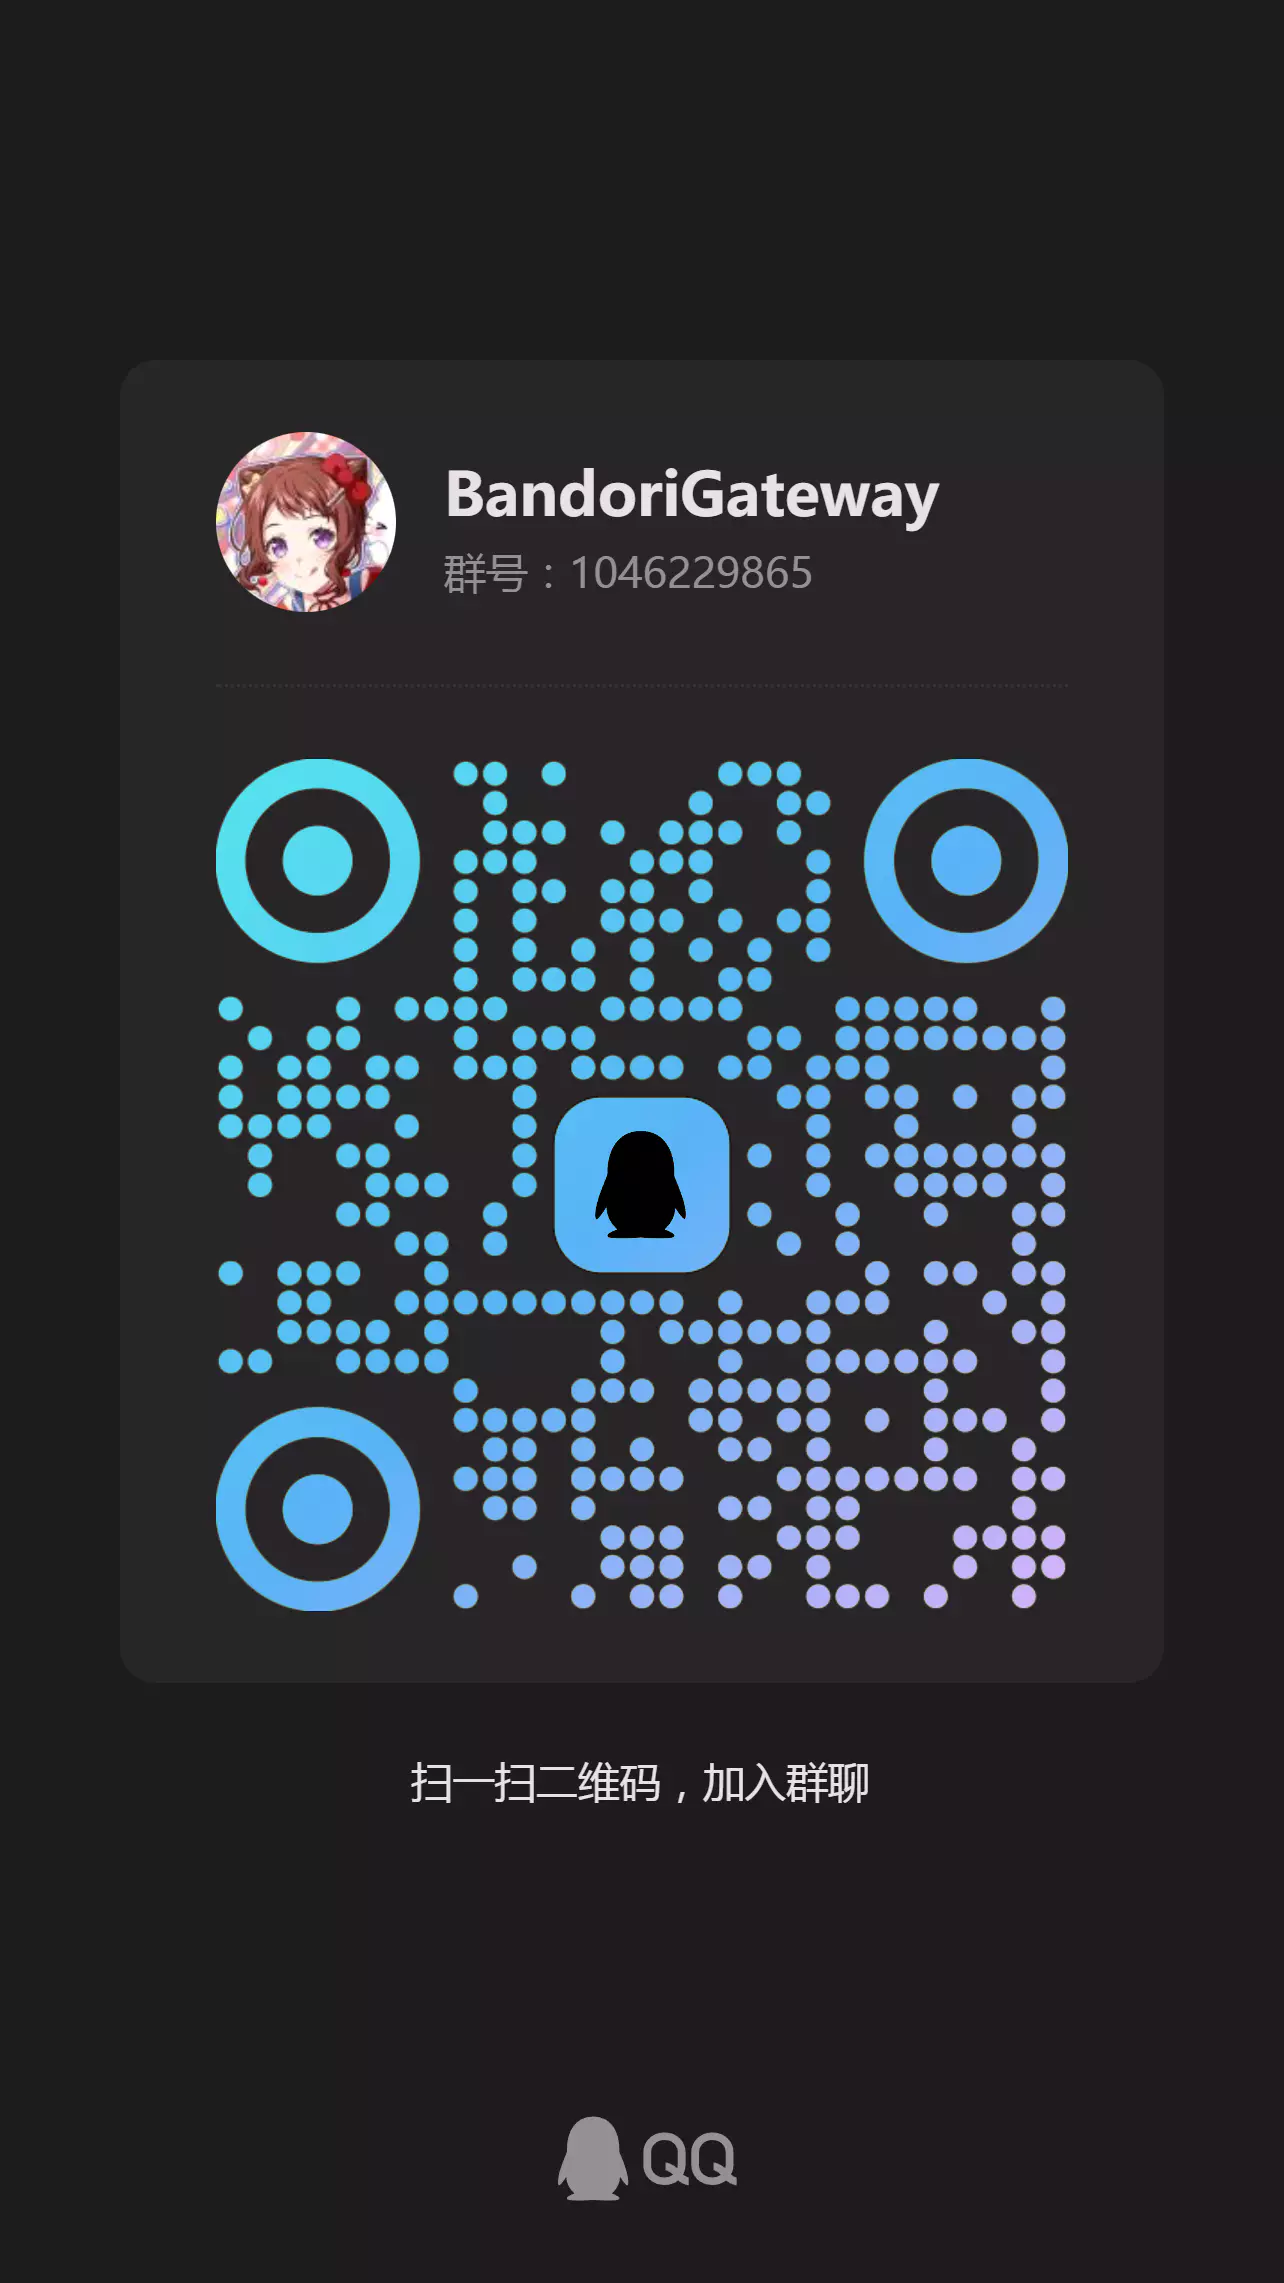
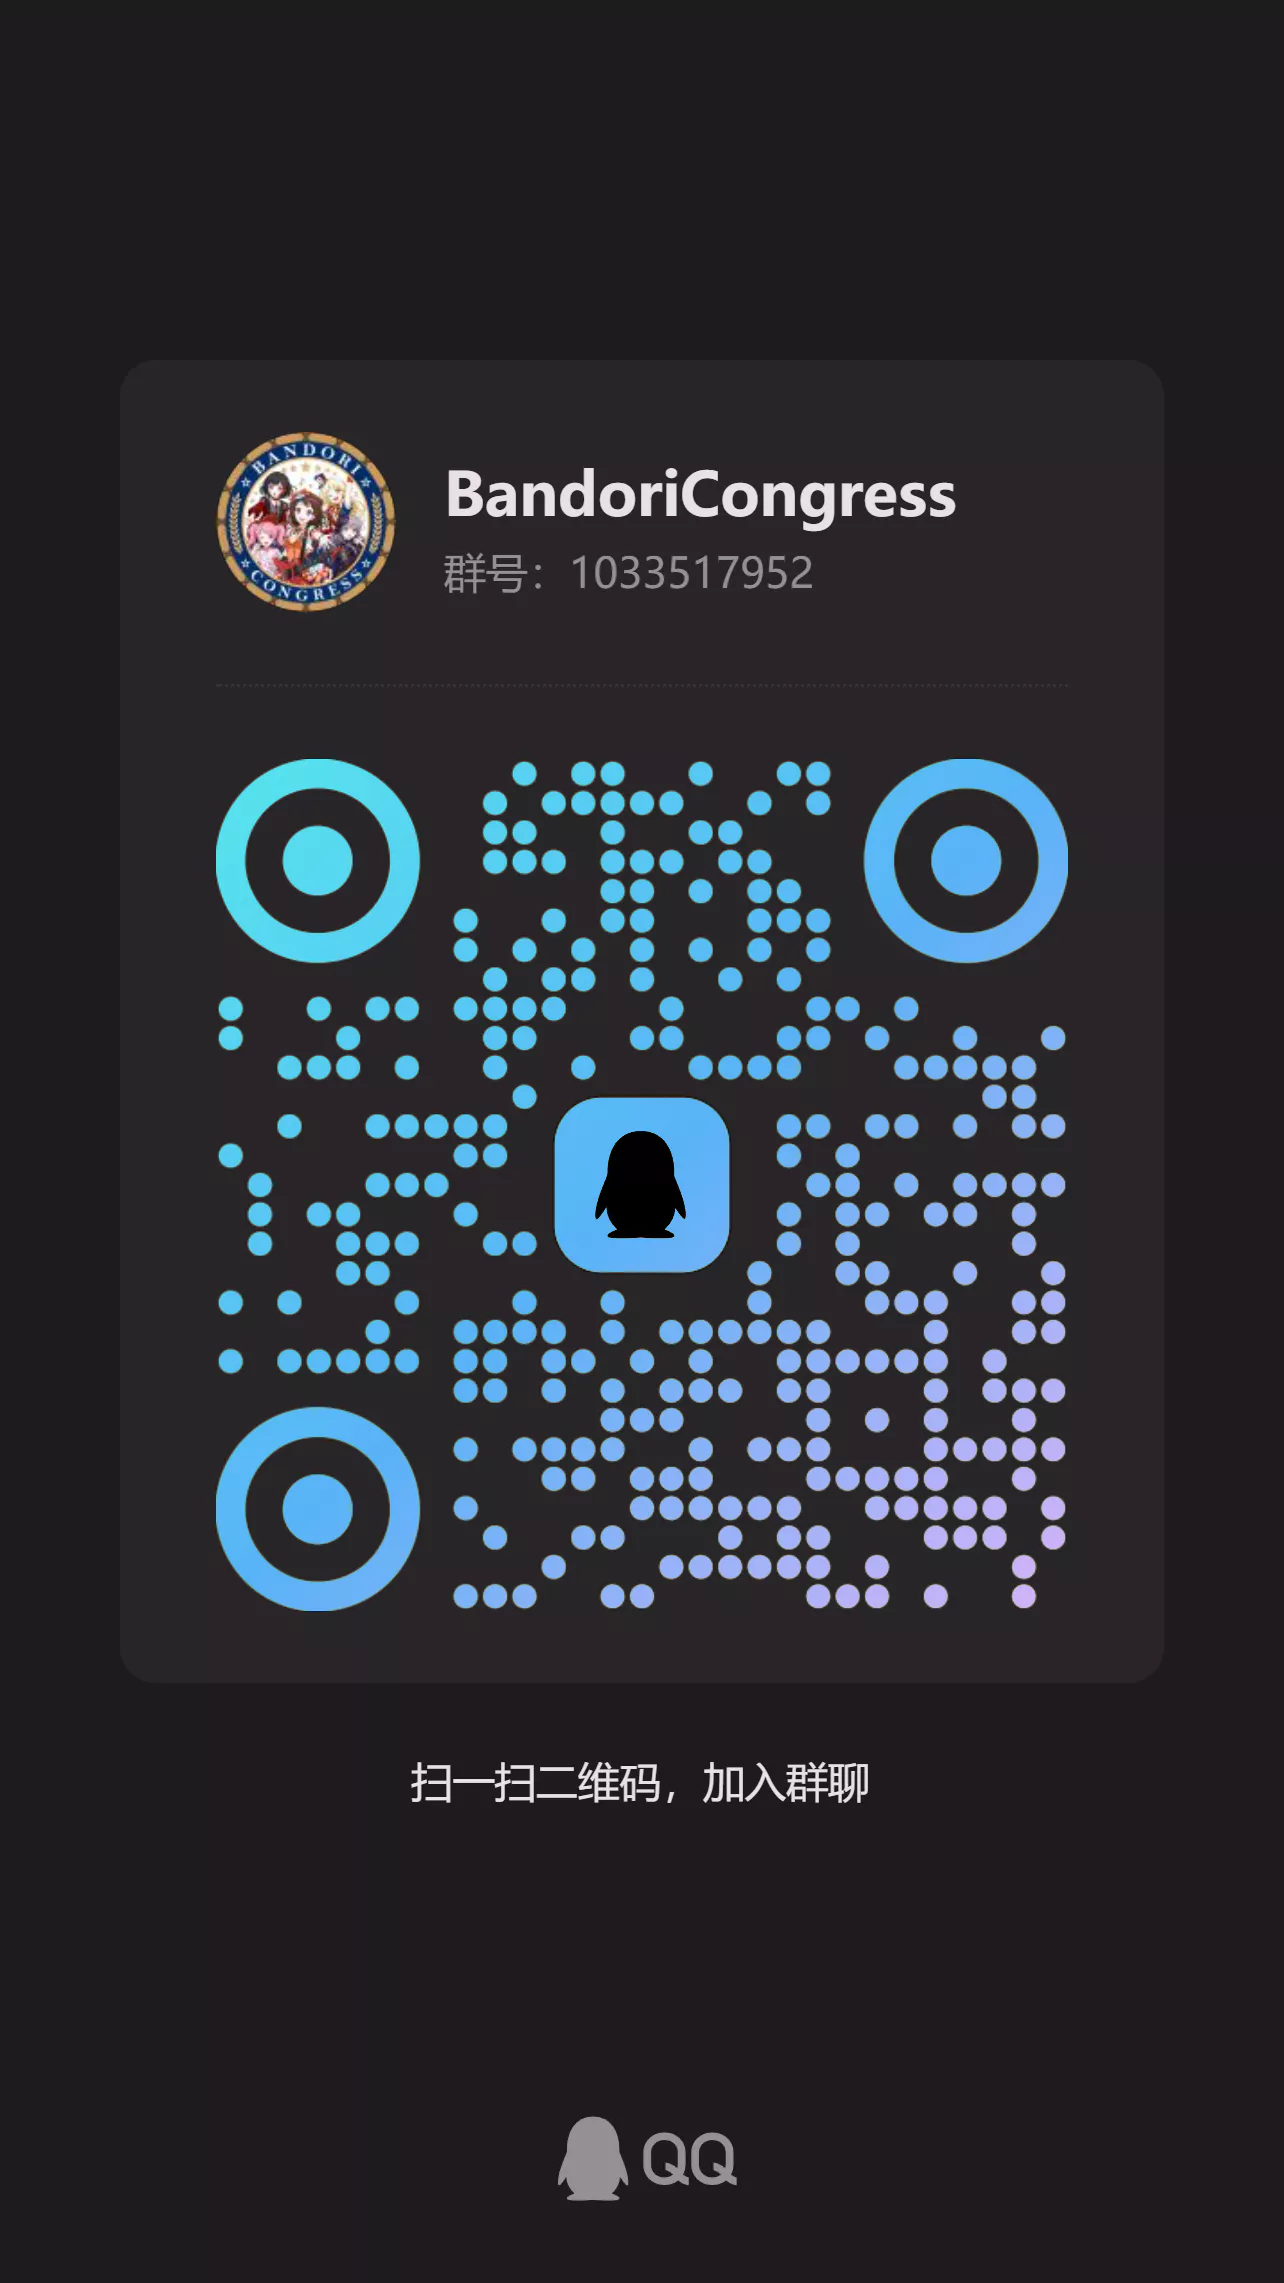
更新群

diff --git a/index.html b/index.html
@@ -195,7 +195,7 @@
           <button id="feedbackModalClose" class="feedback-modal-close" type="button" aria-label="关闭">×</button>
           <img src="./qrcode.webp" alt="反馈群二维码" class="feedback-modal-image" />
           <a
-            href="https://qm.qq.com/q/j1lqVJcjNC"
+            href="https://qm.qq.com/q/RI7DjFYeUE"
             target="_blank"
             rel="noopener noreferrer"
             class="feedback-modal-link"
